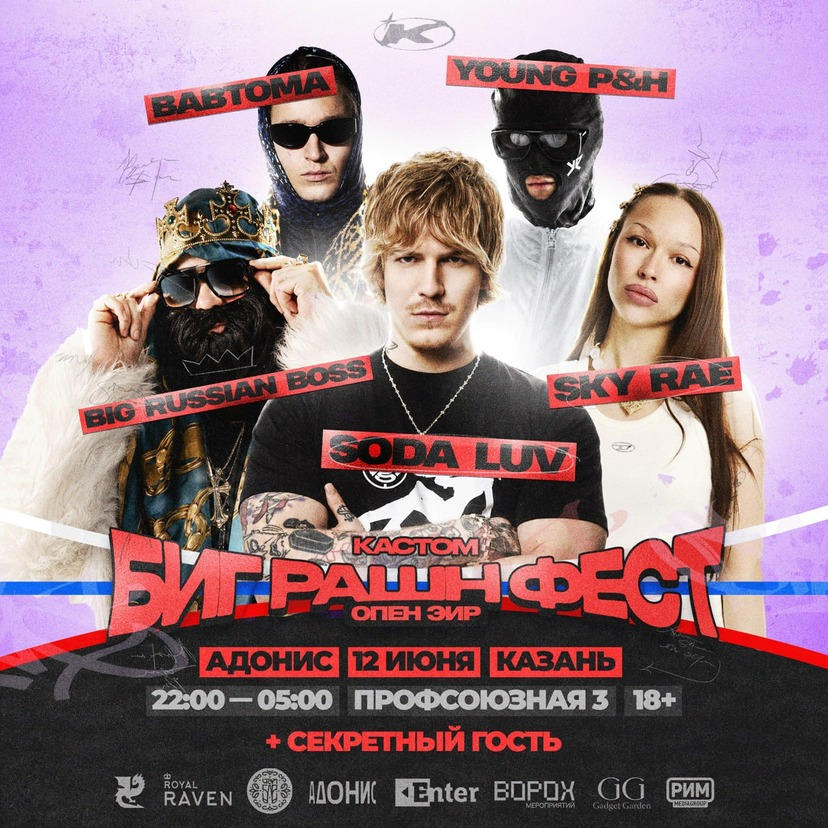
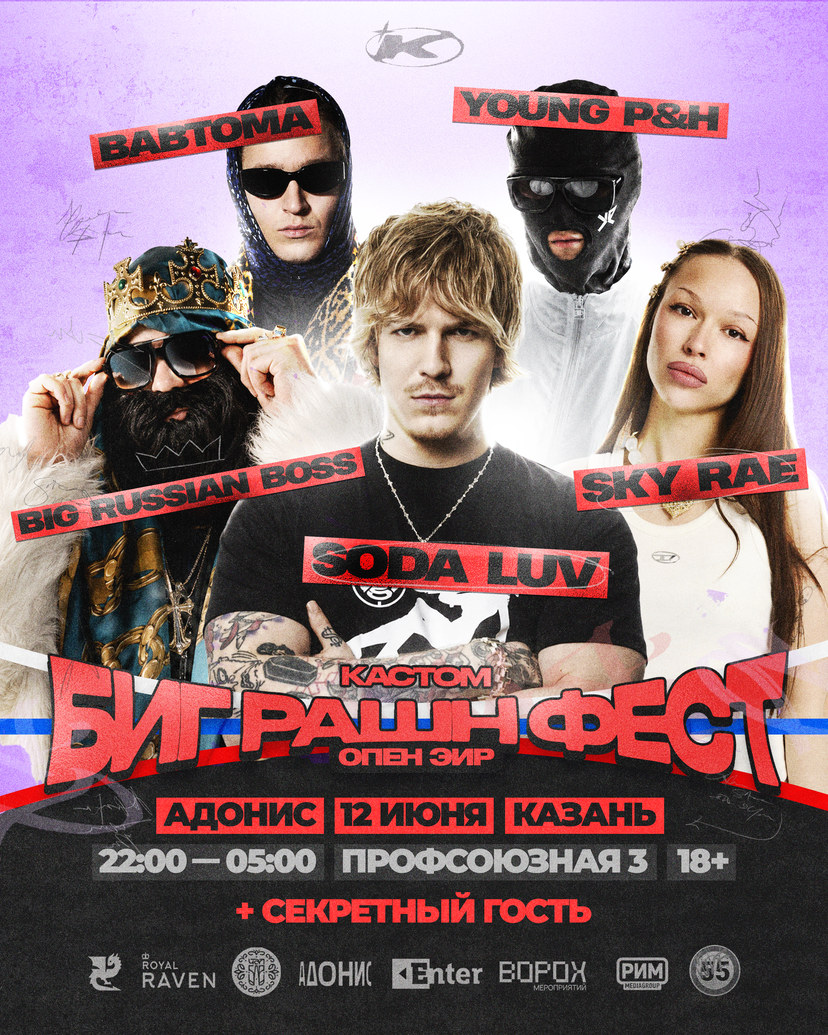
Replace hero posters

diff --git a/index.html b/index.html
@@ -1558,7 +1558,7 @@
     .hero-img-wrap {
       width: 100vw;
       margin: 14px calc(50% - 50vw) 0;
-      aspect-ratio: 1 / 1;
+      aspect-ratio: 4 / 5;
       height: auto;
       max-height: none;
       overflow: hidden;
